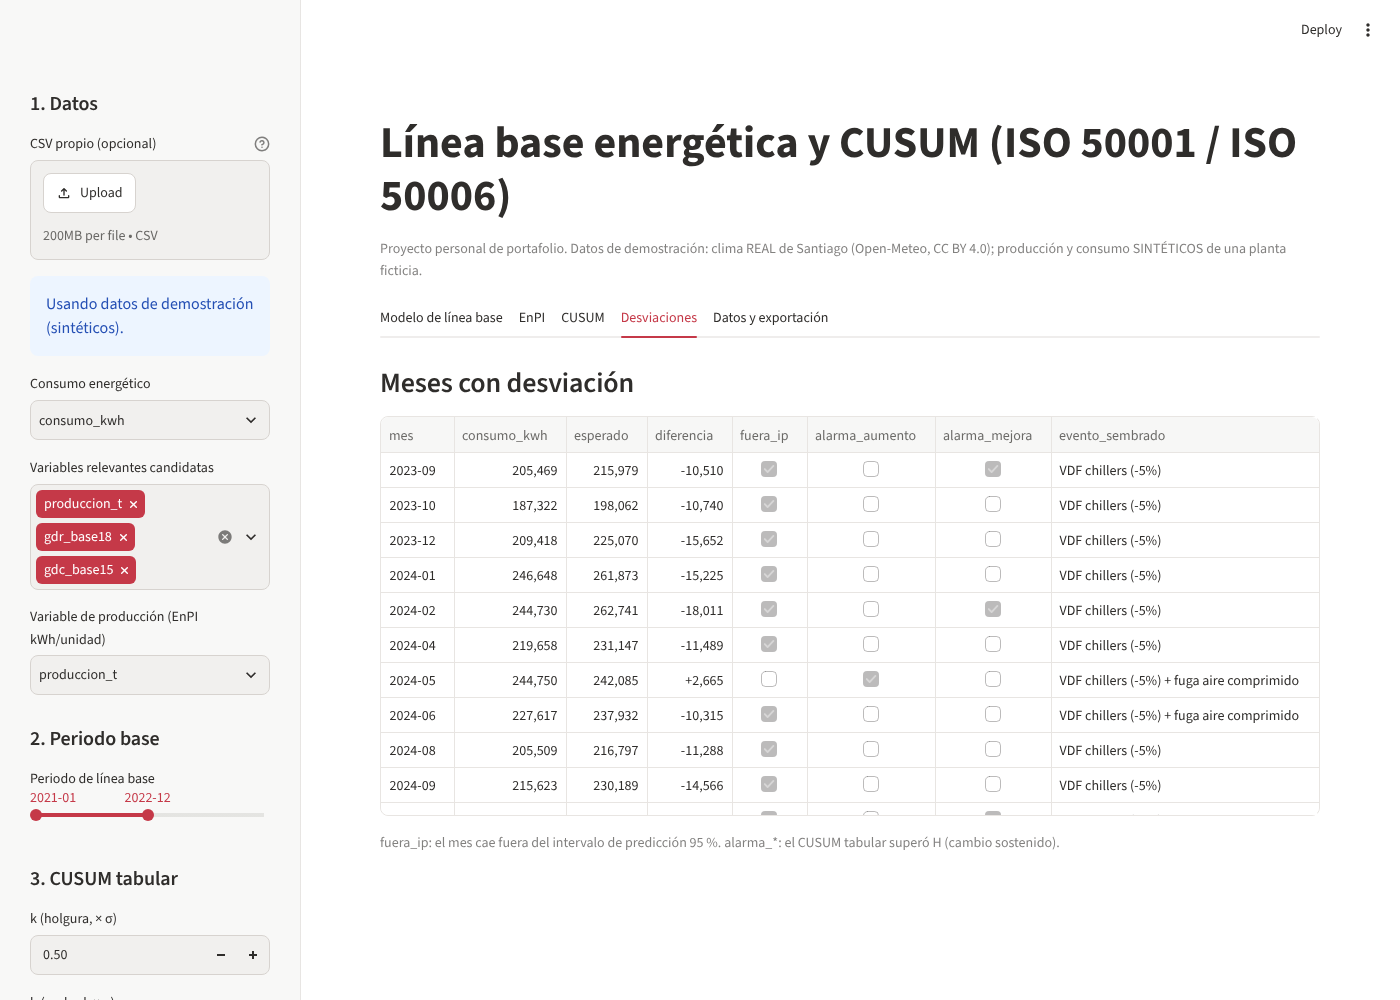
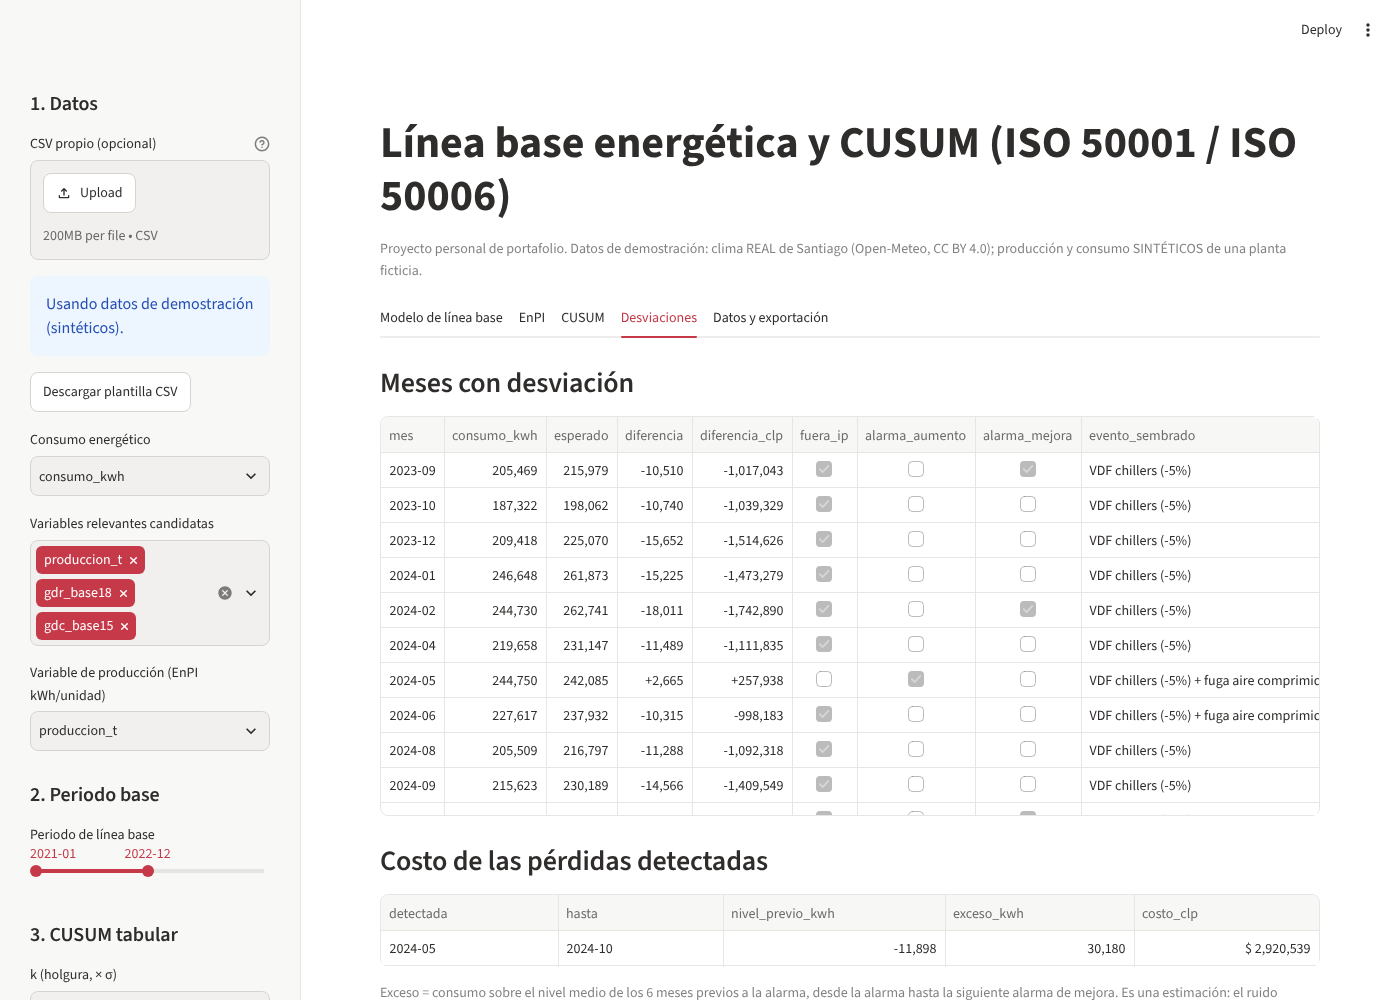
App: plantilla CSV, valorización en CLP y costo de pérdidas; contexto Ley 21.305
Claude-Session: https://claude.ai/code/session_013aE2XvW75An4h8sjsmfWQh

diff --git a/app.py b/app.py
@@ -14,6 +14,11 @@ sys.path.insert(0, str(Path(__file__).parent / "src"))
 from lb50001 import analizar, seleccionar_modelo, validar_modelo  # noqa: E402
 
 DATOS_DEMO = Path(__file__).parent / "data" / "planta_sintetica.csv"
+PLANTILLA = Path(__file__).parent / "data" / "plantilla_entrada.csv"
+# Precio Medio de Mercado del SEN (CNE, publicación 07-oct-2026, ventana abr–jul 2026).
+# Es precio de energía mayorista: no incluye potencia, transmisión ni distribución,
+# así que el costo valorizado es un mínimo conservador (supuesto E-01 en MODELO.md).
+PRECIO_REF_CLP_KWH = 96.77
 
 st.set_page_config(page_title="Línea base ISO 50001", layout="wide")
 st.title("Línea base energética y CUSUM (ISO 50001 / ISO 50006)")
@@ -28,6 +33,9 @@ with st.sidebar:
     df = pd.read_csv(archivo) if archivo else pd.read_csv(DATOS_DEMO)
     if not archivo:
         st.info("Usando datos de demostración (sintéticos).")
+    st.download_button("Descargar plantilla CSV", PLANTILLA.read_bytes(), "plantilla_linea_base.csv",
+                       "text/csv", help="Una fila por mes. Reemplaza las filas de ejemplo con los datos de tu "
+                       "planta (mínimo 12 meses de periodo base). Puedes renombrar o agregar variables.")
     df["mes"] = df["mes"].astype(str)
     numericas = [c for c in df.select_dtypes("number").columns if c != "dias"]
     y = st.selectbox("Consumo energético", numericas,
@@ -46,6 +54,11 @@ with st.sidebar:
     k = st.number_input("k (holgura, × σ)", 0.1, 2.0, 0.5, 0.1)
     h = st.number_input("h (umbral, × σ)", 1.0, 10.0, 4.0, 0.5)
     recentrar = st.checkbox("Recentrar tras cada alarma", True)
+
+    st.header("4. Valorización")
+    precio = st.number_input("Precio de la energía (CLP/kWh)", 0.0, 1000.0, PRECIO_REF_CLP_KWH, 1.0,
+                             help="Por defecto: Precio Medio de Mercado SEN, CNE (oct-2026). Solo energía; "
+                             "una tarifa industrial real es mayor, así que el valor resultante es conservador.")
 
 if not candidatas:
     st.warning("Elige al menos una variable relevante.")
@@ -110,10 +123,11 @@ with tab2:
     st.subheader("Indicadores de desempeño energético (periodo de reporte)")
     if len(rep):
         ahorro = rep["ahorro"].sum()
-        c1, c2, c3 = st.columns(3)
+        c1, c2, c3, c4 = st.columns(4)
         c1.metric("Ahorro acumulado", f"{ahorro:,.0f}", help="Σ(esperado − real)")
-        c2.metric("Ahorro relativo", f"{ahorro / rep['esperado'].sum():.1%}")
-        c3.metric("EnPI normalizado medio (real/esperado)", f"{rep['enpi_indice'].mean():.3f}")
+        c2.metric("Ahorro valorizado (CLP)", f"$ {ahorro * precio:,.0f}".replace(",", "."))
+        c3.metric("Ahorro relativo", f"{ahorro / rep['esperado'].sum():.1%}")
+        c4.metric("EnPI normalizado medio", f"{rep['enpi_indice'].mean():.3f}", help="real / esperado")
     fig = go.Figure()
     fig.add_scatter(x=out["mes"], y=out["enpi_indice"], name="Real / esperado", mode="lines+markers")
     fig.add_hline(y=1, line_dash="dot")
@@ -150,9 +164,32 @@ with tab4:
     cols = ["mes", y, "esperado", "diferencia", "fuera_ip", "alarma_aumento", "alarma_mejora"]
     if "evento_sembrado" in rep:
         cols.append("evento_sembrado")
-    marcados = rep[rep["fuera_ip"] | rep["alarma_aumento"] | rep["alarma_mejora"]][cols]
-    st.dataframe(marcados.style.format({y: "{:,.0f}", "esperado": "{:,.0f}", "diferencia": "{:+,.0f}"}),
+    marcados = rep[rep["fuera_ip"] | rep["alarma_aumento"] | rep["alarma_mejora"]][cols].copy()
+    marcados.insert(4, "diferencia_clp", marcados["diferencia"] * precio)
+    st.dataframe(marcados.style.format({y: "{:,.0f}", "esperado": "{:,.0f}", "diferencia": "{:+,.0f}",
+                                        "diferencia_clp": "{:+,.0f}"}),
                  use_container_width=True, hide_index=True)
+
+    # Pérdida mientras dura un aumento sostenido: desde la alarma C+ hasta la siguiente alarma de mejora,
+    # medida contra el nivel medio de la diferencia en los 6 meses previos a la alarma (supuesto E-02).
+    alarmas = list(rep.index[rep["alarma_aumento"]])
+    if alarmas:
+        st.subheader("Costo de las pérdidas detectadas")
+        filas = []
+        for i in alarmas:
+            nivel = rep.loc[:i, "diferencia"].iloc[:-1].tail(6).mean()
+            tramo = rep.loc[i:]
+            fin_idx = tramo.index[tramo["alarma_mejora"]]
+            tramo = tramo.loc[: fin_idx[0]] if len(fin_idx) else tramo
+            exceso = (tramo["diferencia"] - nivel).clip(lower=0)
+            filas.append({"detectada": rep.loc[i, "mes"], "hasta": tramo["mes"].iloc[-1],
+                          "nivel_previo_kwh": nivel, "exceso_kwh": exceso.sum(),
+                          "costo_clp": exceso.sum() * precio})
+        st.dataframe(pd.DataFrame(filas).style.format({"nivel_previo_kwh": "{:+,.0f}", "exceso_kwh": "{:,.0f}",
+                                                       "costo_clp": "$ {:,.0f}"}),
+                     use_container_width=True, hide_index=True)
+        st.caption("Exceso = consumo sobre el nivel medio de los 6 meses previos a la alarma, desde la "
+                   "alarma hasta la siguiente alarma de mejora. Es una estimación: el ruido mensual la afecta.")
     st.caption("fuera_ip: el mes cae fuera del intervalo de predicción 95 %. "
                "alarma_*: el CUSUM tabular superó H (cambio sostenido).")
 

diff --git a/tests/test_modelo.py b/tests/test_modelo.py
@@ -136,3 +136,9 @@ def test_errores_de_entrada():
         ajustar_linea_base(df, "y", [])
     with pytest.raises(ValueError):
         ajustar_linea_base(df, "y", ["x"])
+
+
+def test_plantilla_tiene_columnas_de_la_demo(datos):
+    plantilla = pd.read_csv(RAIZ / "data" / "plantilla_entrada.csv")
+    assert set(plantilla.columns) <= set(datos.columns)
+    assert {"mes", "consumo_kwh"} <= set(plantilla.columns)

diff --git a/MODELO.md b/MODELO.md
@@ -90,6 +90,17 @@ CV(RMSE) = √(Σe²/(n−p−1)) / Ē  NMBE = Σe / ((n−p−1)·Ē)
     (μ ± K ± C/N) y se reinician los acumuladores. Sin esto, una mejora ya confirmada oculta una
     pérdida posterior (la fuga de 2024 no se detectaba).
 
+### 3.5 Valorización en pesos
+
+- **E-01** Precio por defecto: 96,77 CLP/kWh, el Precio Medio de Mercado del SEN publicado por la CNE
+  el 7 de octubre de 2026 (ventana abril–julio 2026). Es un precio de energía mayorista: no incluye
+  potencia, transmisión ni distribución, así que los montos en CLP son un **mínimo conservador**.
+  El usuario puede cambiarlo en la app.
+- **E-02** Costo de una pérdida detectada: exceso de la diferencia (real − esperado) sobre su nivel medio
+  de los 6 meses previos a la alarma C⁺, sumado desde la alarma hasta la siguiente alarma de mejora.
+  En la demo da 30,2 MWh (≈ 2,9 millones CLP) frente a 42 MWh verdaderos: el ruido de junio de 2024
+  (−10 MWh) oculta parte de la fuga. Es una estimación, no una medición.
+
 ## 4. Validación (contra la "verdad" del generador)
 
 Como los datos son sintéticos, sabemos qué debía encontrar el modelo. Todo esto está en `tests/`.
@@ -117,13 +128,29 @@ Como los datos son sintéticos, sabemos qué debía encontrar el modelo. Todo es
 - **H-3** Tras la primera alarma de mejora, la referencia recentrada (−7 500 kWh) subestima el nuevo
   nivel real (≈ −11 000), lo que genera una segunda alarma de mejora en 2024-02. Es un retardo
   conocido del recentrado; se podría usar la media de los meses posteriores a la alarma.
+- **H-5** La fuga no aparece como mes anómalo: en mayo de 2024 el consumo real quedó *dentro* del
+  intervalo de predicción, porque el ahorro de los variadores la compensaba. Solo el CUSUM recentrado
+  la detecta. Valorizada a precio de energía mayorista, costó al menos ≈ 2,9 millones CLP.
 - **H-4** Falta la incertidumbre del ahorro (ASHRAE G14, ec. 4-6 / IPMVP). Trabajo futuro.
 
-## 5. Lista de revisión para Vicente
+## 5. Contexto en Chile: Ley 21.305
+
+La Ley 21.305 sobre Eficiencia Energética (D.O. 13-02-2021), art. 2°, define como Consumidores con
+Capacidad de Gestión de Energía (CCGE) a las empresas con consumo de energía para uso final sobre
+50 Tcal anuales (≈ 58 GWh). Los CCGE deben implementar, dentro de 12 meses desde su publicación en el
+listado anual, un Sistema de Gestión de Energía que cubra al menos el 80 % de su consumo e incluya
+indicadores de desempeño energético y medición y verificación. También pueden cumplir certificando una
+norma de gestión de energía del INN o su equivalente internacional (ISO 50001).
+
+La planta ficticia consume ≈ 2,7 GWh/año de electricidad, **muy por debajo** del umbral: no sería CCGE.
+El método es el mismo que usaría un CCGE; la escala no.
+
+## 6. Lista de revisión para Vicente
 
 - [x] S-01, S-02: magnitudes de la planta y de los eventos (se mantienen).
 - [x] S-04: bases de grados día y su referencia.
 - [x] S-06: no se normaliza por días; queda como limitación declarada.
 - [x] M-04 a M-08: criterios ASHRAE G14 (se mantienen).
 - [x] M-09 a M-11: k = 0,5, h = 4 y recentrado (se mantienen).
-- [ ] H-1 a H-4: redacción de los hallazgos en tus palabras.
+- [ ] H-1 a H-5: redacción de los hallazgos en tus palabras.
+- [ ] E-01, E-02: precio de referencia y método de costo de la fuga.

diff --git a/README.md b/README.md
@@ -23,8 +23,18 @@ normalizado** y detecta **cambios de desempeño** con CUSUM.
 3. **EnPI**: normalizado (real/esperado) y de cociente simple (kWh/t), para mostrar por qué el segundo engaña.
 4. **CUSUM** de diferencias y **CUSUM tabular de Page** con recentrado tras cada alarma.
 5. **Desviaciones**: meses fuera del intervalo de predicción 95 % y alarmas del CUSUM.
-6. **Exporta a Excel** resultados, selección de modelo, validación y coeficientes.
-7. Acepta un **CSV propio** (columna `mes` AAAA-MM + consumo + variables).
+6. **Valoriza en pesos** el ahorro y las pérdidas detectadas (precio editable; por defecto, el Precio
+   Medio de Mercado de la CNE, que es un mínimo conservador).
+7. **Exporta a Excel** resultados, selección de modelo, validación y coeficientes.
+8. Acepta un **CSV propio**: descarga la plantilla desde la barra lateral, reemplaza las filas con los
+   datos de tu planta (mínimo 12 meses de periodo base) y súbela.
+
+## Por qué importa en Chile
+
+La [Ley 21.305](https://www.bcn.cl/leychile/navegar?idNorma=1155887) obliga a las empresas que consumen
+más de 50 Tcal/año (≈ 58 GWh) a implementar un sistema de gestión de energía con indicadores de
+desempeño y medición y verificación. Esta app hace ese núcleo: línea base, EnPI y seguimiento.
+La planta de demostración es mucho más chica que ese umbral.
 
 ![CUSUM](docs/app_cusum.png)
 
@@ -38,7 +48,8 @@ Como los datos son sintéticos, se sabe qué debía encontrar el modelo:
 | Cobertura IC95 de coeficientes (300 réplicas Monte Carlo) | 90–99 % |
 | Ahorro 2023–2024 | Estimado 173 MWh vs verdadero 161 MWh |
 | Mejora sembrada (VDF en chillers, desde 2023-07) | Detectada en 2023-09 |
-| Fuga de aire comprimido (2024-05 a 07) | Detectada en 2024-05, sin falsas alarmas previas |
+| Fuga de aire comprimido (2024-05 a 07) | Detectada en 2024-05, sin falsas alarmas previas, aunque ese mes quedó dentro del intervalo de predicción |
+| Costo estimado de la fuga | 30 MWh ≈ 2,9 millones CLP (verdadero: 42 MWh) |
 
 Detalle, supuestos y limitaciones en [MODELO.md](MODELO.md).
 
@@ -48,7 +59,7 @@ Detalle, supuestos y limitaciones en [MODELO.md](MODELO.md).
 python -m venv .venv && source .venv/bin/activate
 pip install -r requirements.txt
 streamlit run app.py
-pytest -q          # 12 tests
+pytest -q          # 13 tests
 python scripts/generar_datos_sinteticos.py   # regenera los datos de demostración
 ```
 

diff --git a/SOURCES.md b/SOURCES.md
@@ -8,6 +8,12 @@
 - **Datos sintéticos**: `data/planta_sintetica.csv`, generado por `scripts/generar_datos_sinteticos.py`
   (semilla 50001). No corresponden a ninguna planta real.
 
+## Precio y regulación
+- Comisión Nacional de Energía, "Precio Medio de Mercado Sistema Eléctrico Nacional", publicación del
+  07-10-2026 (ventana abril–julio 2026): PMM SEN 96,772 $/kWh.
+  https://www.cne.cl/wp-content/uploads/2026/10/Precio_Medio_de_Mercado-1.pdf — consultado el 2026-11-25.
+- Ley 21.305 sobre Eficiencia Energética, art. 2°. https://www.bcn.cl/leychile/navegar?idNorma=1155887
+
 ## Normas y método (no se reproduce texto de normas)
 - ISO 50001:2018, Sistemas de gestión de la energía. Requisitos con orientación para su uso.
 - ISO 50006:2023, Medición del desempeño energético usando líneas base energéticas (LBE) e indicadores de desempeño energético (IDEn).
